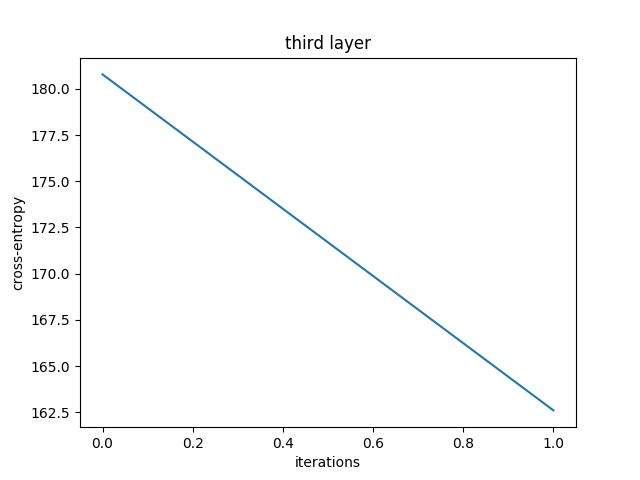
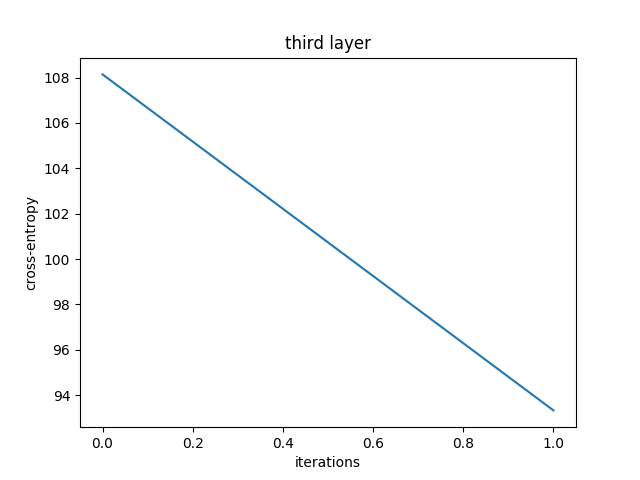
fix learning equations

diff --git a/project_2/src/part_b/main.py b/project_2/src/part_b/main.py
@@ -29,7 +29,6 @@ teX, teY = teX[:2000], teY[:2000]
 x = T.fmatrix('x')
 d = T.fmatrix('d')
 
-
 rng = np.random.RandomState(123)
 theano_rng = RandomStreams(rng.randint(2 ** 30))
 
@@ -60,48 +59,54 @@ W3_prime = W3.transpose()
 W_end = init_weights(900, 10)
 b_end = init_bias(10)
 
-print("lmao familicious")
+print("lmao familicious fam")
 
 tilde_x = theano_rng.binomial(size=x.shape, n=1, p=1 - corruption_level,
                               dtype=theano.config.floatX)*x
 y1 = T.nnet.sigmoid(T.dot(tilde_x, W1) + b1)
-z1 = T.nnet.sigmoid(T.dot(y1, W1_prime) + b1_prime)
-cost1 = - T.mean(T.sum(x * T.log(z1) + (1 - x) * T.log(1 - z1), axis=1))
+z1_1 = T.nnet.sigmoid(T.dot(y1, W1_prime) + b1_prime)
+cost1 = - T.mean(T.sum(x * T.log(z1_1) + (1 - x) * T.log(1 - z1_1), axis=1))
 
-tilde_y1 = theano_rng.binomial(size=y1.shape, n=1, p=1 - corruption_level,
-                              dtype=theano.config.floatX)*y1
+yy1 = T.fmatrix('yy1')
+tilde_y1 = theano_rng.binomial(size=yy1.shape, n=1, p=1 - corruption_level,
+                              dtype=theano.config.floatX)*yy1
 y2 = T.nnet.sigmoid(T.dot(tilde_y1, W2) + b2)
-z2 = T.nnet.sigmoid(T.dot(y2, W2_prime) + b2_prime)
-cost2 = - T.mean(T.sum(y1 * T.log(z2) + (1 - y1) * T.log(1 - z2), axis=1))
+z2_2 = T.nnet.sigmoid(T.dot(y2, W2_prime) + b2_prime)
+z1_2 = T.nnet.sigmoid(T.dot(z2_2, W1_prime) + b1_prime)
+cost2 = - T.mean(T.sum(x * T.log(z1_2) + (1 - x) * T.log(1 - z1_2), axis=1))
 
-tilde_y2 = theano_rng.binomial(size=y2.shape, n=1, p=1 - corruption_level,
-                              dtype=theano.config.floatX)*y2
+yy2 = T.fmatrix('yy2')
+tilde_y2 = theano_rng.binomial(size=yy2.shape, n=1, p=1 - corruption_level,
+                              dtype=theano.config.floatX)*yy2
 y3 = T.nnet.sigmoid(T.dot(tilde_y2, W3) + b3)
-z3 = T.nnet.sigmoid(T.dot(y3, W3_prime) + b3_prime)
-cost3 = - T.mean(T.sum(y2 * T.log(z3) + (1 - y2) * T.log(1 - z3), axis=1))
+z3_3 = T.nnet.sigmoid(T.dot(y3, W3_prime) + b3_prime)
+z2_3 = T.nnet.sigmoid(T.dot(z3_3, W2_prime) + b2_prime)
+z1_3 = T.nnet.sigmoid(T.dot(z2_3, W1_prime) + b1_prime)
+cost3 = - T.mean(T.sum(x * T.log(z1_3) + (1 - x) * T.log(1 - z1_3), axis=1))
 
 #first layer
 params1 = [W1, b1, b1_prime]
 grads1 = T.grad(cost1, params1)
 updates1 = [(param1, param1 - learning_rate * grad1)
            for param1, grad1 in zip(params1, grads1)]
-train_da1 = theano.function(inputs=[x], outputs = cost1, updates = updates1, allow_input_downcast = True)
-compute_da1 = theano.function(inputs=[x], outputs = [y1, z1], updates = None, allow_input_downcast = True)
+train_da1 = theano.function(inputs=[x], outputs=cost1, updates=updates1, allow_input_downcast=True)
+test_da1 = theano.function(inputs=[x], outputs=[y1, z1_1], updates=None, allow_input_downcast=True)
 
 #second layer
-params2 = [W2, b2,b2_prime]
+params2 = [W2, b2, b2_prime]
 grads2 = T.grad(cost2, params2)
 updates2 = [(param2, param2 - learning_rate * grad2)
            for param2, grad2 in zip(params2, grads2)]
-train_da2 = theano.function(inputs=[y1], outputs = cost2, updates = updates2, allow_input_downcast = True)
-compute_da2 = theano.function(inputs=[y1], outputs = [y2, z2], updates = None, allow_input_downcast = True)
+train_da2 = theano.function(inputs=[x, yy1], outputs=cost2, updates=updates2, allow_input_downcast=True)
+test_da2 = theano.function(inputs=[yy1], outputs=[y2, z1_2], updates=None, allow_input_downcast=True)
+
 #third layer
-params3 = [W3, b3,b3_prime]
+params3 = [W3, b3, b3_prime]
 grads3 = T.grad(cost3, params3)
 updates3 = [(param3, param3 - learning_rate * grad3)
            for param3, grad3 in zip(params3, grads3)]
-train_da3 = theano.function(inputs=[y2], outputs = cost3, updates = updates3, allow_input_downcast = True)
-compute_da3 = theano.function(inputs=[y2], outputs = [y3, z3], updates = None, allow_input_downcast = True)
+train_da3 = theano.function(inputs=[x, yy2], outputs = cost3, updates = updates3, allow_input_downcast = True)
+test_da3 = theano.function(inputs=[yy2], outputs = [y3, z1_3], updates = None, allow_input_downcast = True)
 
 
 
@@ -122,7 +127,6 @@ for epoch in range(training_epochs):
     # go through trainng set
     c = []
     for start, end in zip(range(0, len(trX), batch_size), range(batch_size, len(trX), batch_size)):
-
         cost = train_da1(trX[start:end])
         c.append(cost)
     d1.append(np.mean(c, dtype='float64'))
@@ -134,8 +138,8 @@ for epoch in range(training_epochs):
     # go through trainng set
     c = []
     for start, end in zip(range(0, len(trX), batch_size), range(batch_size, len(trX), batch_size)):
-        yy1, _ = compute_da1(trX[start:end])
-        cost = train_da2(yy1)
+        yy1, _ = test_da1(trX[start:end])
+        cost = train_da2(trX[start:end], yy1)
         c.append(cost)
     d2.append(np.mean(c, dtype='float64'))
     print(d[epoch])
@@ -146,9 +150,9 @@ for epoch in range(training_epochs):
     # go through trainng set
     c = []
     for start, end in zip(range(0, len(trX), batch_size), range(batch_size, len(trX), batch_size)):
-        yy1, _ = compute_da1(trX[start:end])
-        yy2, _ = compute_da2(yy1)
-        cost = train_da3(yy2)
+        yy1, _ = test_da1(trX[start:end])
+        yy2, _ = test_da2(yy1)
+        cost = train_da3(trX[start:end], yy2)
         c.append(cost)
     d3.append(np.mean(c, dtype='float64'))
     print(d[epoch])
@@ -201,15 +205,16 @@ pylab.savefig('firstLayerWeights')
 # pylab.savefig('thirdLayerWeights')
 
 #reconstructed images
-tilde_teX = []
-for x in teX[:100]:
+tilde_teX = np.zeros(teX[:100].shape)
+print(tilde_teX.shape)
+for i, x in enumerate(teX[:100]):
     tilde_x = theano_rng.binomial(size=x.shape, n=1, p=1 - corruption_level, dtype=theano.config.floatX)*x
-    tilde_teX += [tilde_x]
-tilde_teX = np.reshape(tilde_teX, teX[:100].shape)
+    tilde_teX[i] = tilde_x # TODO: reformat tilde_x
+# tilde_teX = np.reshape(tilde_teX, teX[:100].shape)
 
-yy1, zz1 = compute_da1(tilde_teX)
-yy2, zz2 = compute_da2(yy1) # TODO: We need to compute zz1 from zz2
-yy3, zz3 = compute_da3(yy2) # TODO: We need to compute zz2 from zz3 and zz1 form zz2
+yy1, zz1 = test_da1(tilde_teX)
+yy2, zz2 = test_da2(yy1)
+yy3, zz3 = test_da3(yy2)
 
 pylab.figure()
 pylab.gray()
